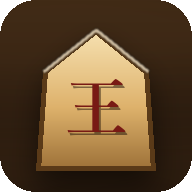
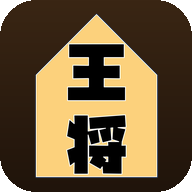
ユーザー提供の「王将」駒アートワークをアプリアイコンに適用
背景(白)をflood fillで透過化し、木目背景に合成してicon-192/512/maskableを再生成。

diff --git a/process_custom_icon.py b/process_custom_icon.py
@@ -1,0 +1,128 @@
+"""Remove white background from the pasted 王将 koma artwork and rebuild the app icon set."""
+from collections import deque
+from PIL import Image, ImageFilter
+
+SRC = r"C:\Users\user\OneDrive\ドキュメント\画像\Screenshots\スクリーンショット 2026-08-11 160209.png"
+
+
+def flood_remove_bg(img, thresh=24):
+    img = img.convert("RGBA")
+    w, h = img.size
+    px = img.load()
+    visited = bytearray(w * h)
+    q = deque()
+
+    def bg_like(c1, c2):
+        return max(abs(c1[0] - c2[0]), abs(c1[1] - c2[1]), abs(c1[2] - c2[2])) <= thresh
+
+    for x in range(w):
+        for y in (0, h - 1):
+            idx = y * w + x
+            if not visited[idx]:
+                q.append((x, y)); visited[idx] = 1
+    for y in range(h):
+        for x in (0, w - 1):
+            idx = y * w + x
+            if not visited[idx]:
+                q.append((x, y)); visited[idx] = 1
+
+    seed_color = px[0, 0]
+    alpha = bytearray([255]) * (w * h)
+
+    while q:
+        x, y = q.popleft()
+        idx = y * w + x
+        c = px[x, y]
+        if not bg_like(c, seed_color):
+            continue
+        alpha[idx] = 0
+        for dx, dy in ((1, 0), (-1, 0), (0, 1), (0, -1)):
+            nx, ny = x + dx, y + dy
+            if 0 <= nx < w and 0 <= ny < h:
+                nidx = ny * w + nx
+                if not visited[nidx]:
+                    visited[nidx] = 1
+                    q.append((nx, ny))
+
+    out = Image.new("RGBA", (w, h))
+    for y in range(h):
+        for x in range(w):
+            idx = y * w + x
+            r, g, b, a = px[x, y]
+            out.putpixel((x, y), (r, g, b, alpha[idx]))
+
+    # soften the cut edge slightly
+    r, g, b, a = out.split()
+    a = a.filter(ImageFilter.GaussianBlur(0.6))
+    out = Image.merge("RGBA", (r, g, b, a))
+    return out
+
+
+def bbox_with_margin(img, margin_frac=0.04):
+    bbox = img.split()[3].getbbox()
+    x0, y0, x1, y1 = bbox
+    w, h = img.size
+    mx = int((x1 - x0) * margin_frac)
+    my = int((y1 - y0) * margin_frac)
+    x0 = max(0, x0 - mx); y0 = max(0, y0 - my)
+    x1 = min(w, x1 + mx); y1 = min(h, y1 + my)
+    return img.crop((x0, y0, x1, y1))
+
+
+def square_canvas(img, size, pad_frac=0.06):
+    img = img.copy()
+    w, h = img.size
+    scale = (size * (1 - 2 * pad_frac)) / max(w, h)
+    nw, nh = max(1, round(w * scale)), max(1, round(h * scale))
+    img = img.resize((nw, nh), Image.LANCZOS)
+    canvas = Image.new("RGBA", (size, size), (0, 0, 0, 0))
+    canvas.paste(img, ((size - nw) // 2, (size - nh) // 2), img)
+    return canvas
+
+
+def rounded_mask(size, radius):
+    from PIL import ImageDraw
+    mask = Image.new("L", (size, size), 0)
+    d = ImageDraw.Draw(mask)
+    d.rounded_rectangle([0, 0, size - 1, size - 1], radius=radius, fill=255)
+    return mask
+
+
+def wood_bg(size):
+    import math
+    img = Image.new("RGB", (size, size))
+    px = img.load()
+    top = (58, 38, 20); bottom = (32, 20, 11)
+    for y in range(size):
+        t = y / (size - 1)
+        r = int(top[0] + (bottom[0] - top[0]) * t)
+        g = int(top[1] + (bottom[1] - top[1]) * t)
+        b = int(top[2] + (bottom[2] - top[2]) * t)
+        for x in range(size):
+            px[x, y] = (r, g, b)
+    return img.convert("RGBA")
+
+
+if __name__ == "__main__":
+    raw = Image.open(SRC)
+    cut = flood_remove_bg(raw)
+    cut = bbox_with_margin(cut)
+    cut.save("icons/koma-cutout.png")
+
+    # icon-512 / icon-192: koma artwork centered on the app's wood background, rounded square
+    for size, radius, name in [(512, 96, "icons/icon-512.png"), (192, 36, "icons/icon-192.png")]:
+        bg = wood_bg(size)
+        koma = square_canvas(cut, size, pad_frac=0.05)
+        bg.alpha_composite(koma)
+        mask = rounded_mask(size, radius)
+        out = Image.new("RGBA", (size, size), (0, 0, 0, 0))
+        out.paste(bg, (0, 0), mask)
+        out.save(name)
+
+    # maskable icon: extra safe-zone padding (icon content within ~80% center circle)
+    bg = wood_bg(512)
+    koma = square_canvas(cut, 512, pad_frac=0.16)
+    bg.alpha_composite(koma)
+    bg.save("icons/icon-maskable-512.png")
+
+    print("done", cut.size)
